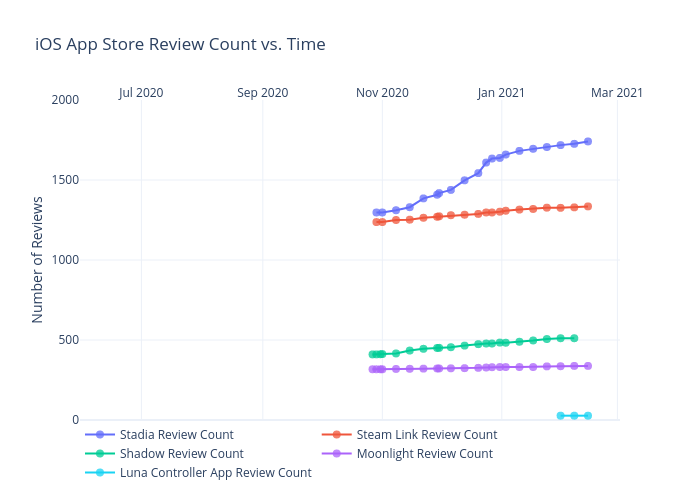
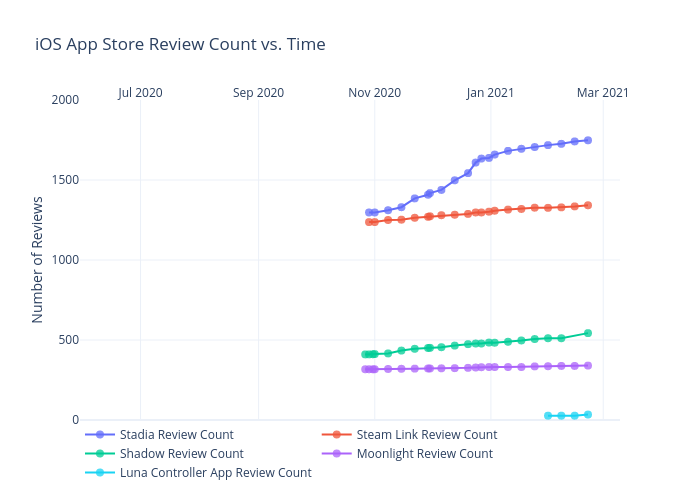
Add files via upload

diff --git a/iosappstore/figure.js b/iosappstore/figure.js
@@ -35,7 +35,8 @@ var figure = {
                 "2021-01-24",
                 "2021-01-31",
                 "2021-02-07",
-                "2021-02-14"
+                "2021-02-14",
+                "2021-02-21"
             ],
             "ysrc": "jdeslip:364:b43812",
             "y": [
@@ -62,7 +63,8 @@ var figure = {
                 "1706",
                 "1718",
                 "1726",
-                "1741"
+                "1741",
+                "1748"
             ],
             "marker": {
                 "size": 8,
@@ -107,7 +109,8 @@ var figure = {
                 "2021-01-24",
                 "2021-01-31",
                 "2021-02-07",
-                "2021-02-14"
+                "2021-02-14",
+                "2021-02-21"
             ],
             "ysrc": "jdeslip:364:d275b0",
             "y": [
@@ -134,7 +137,8 @@ var figure = {
                 "1327",
                 "1326",
                 "1329",
-                "1335"
+                "1335",
+                "1342"
             ],
             "marker": {
                 "size": 8,
@@ -179,7 +183,8 @@ var figure = {
                 "2021-01-24",
                 "2021-01-31",
                 "2021-02-07",
-                "2021-02-14"
+                "2021-02-14",
+                "2021-02-21"
             ],
             "ysrc": "jdeslip:364:791f78",
             "y": [
@@ -205,7 +210,9 @@ var figure = {
                 "497",
                 "506",
                 "511",
-                "511"
+                "511",
+                null,
+                "543"
             ],
             "marker": {
                 "size": 8,
@@ -250,7 +257,8 @@ var figure = {
                 "2021-01-24",
                 "2021-01-31",
                 "2021-02-07",
-                "2021-02-14"
+                "2021-02-14",
+                "2021-02-21"
             ],
             "ysrc": "jdeslip:364:063004",
             "y": [
@@ -277,7 +285,8 @@ var figure = {
                 "335",
                 "336",
                 "338",
-                "338"
+                "338",
+                "340"
             ],
             "marker": {
                 "size": 8,
@@ -322,7 +331,8 @@ var figure = {
                 "2021-01-24",
                 "2021-01-31",
                 "2021-02-07",
-                "2021-02-14"
+                "2021-02-14",
+                "2021-02-21"
             ],
             "ysrc": "jdeslip:364:d976ec",
             "y": [
@@ -349,7 +359,8 @@ var figure = {
                 null,
                 "27",
                 "27",
-                "27"
+                "27",
+                "34"
             ],
             "marker": {
                 "size": 8,
@@ -368,8 +379,8 @@ var figure = {
             "side": "top",
             "type": "date",
             "range": [
-                "2020-05-31 23:24:37.8091",
-                "2021-03-01 00:35:22.1909"
+                "2020-05-31 13:01:23.3427",
+                "2021-03-08 10:58:36.6573"
             ],
             "title": {
                 "text": ""
